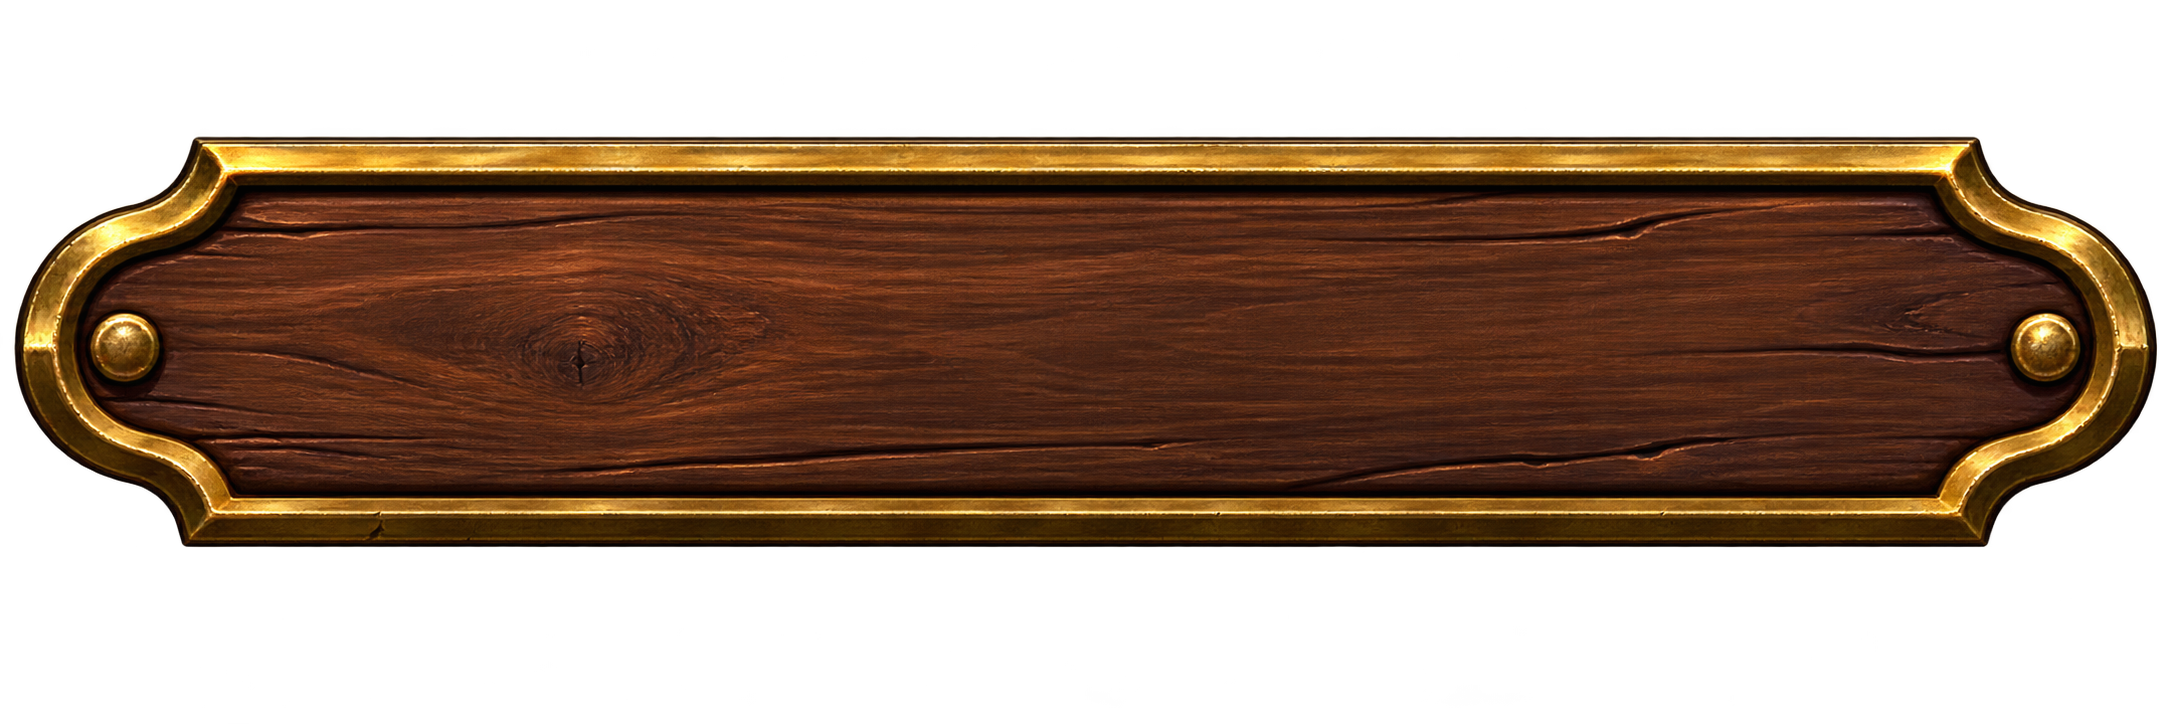
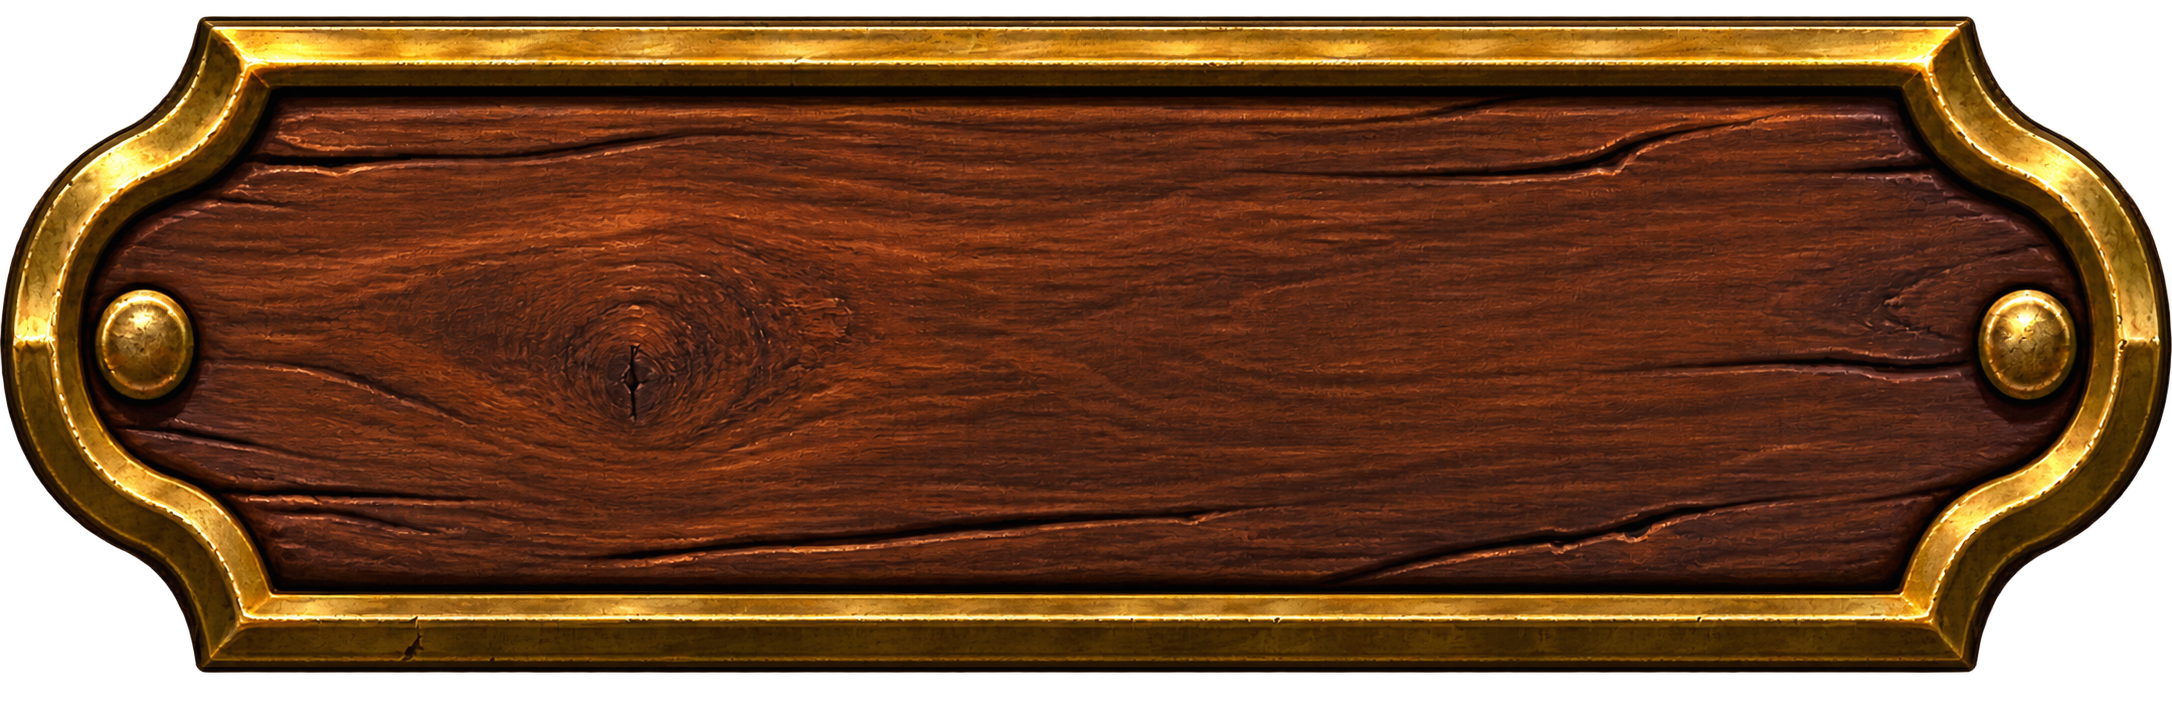
fix: tighten facility nameplate artwork

diff --git a/docs/specifications/04.icon_visual_system.md b/docs/specifications/04.icon_visual_system.md
@@ -78,4 +78,4 @@
 
 施設名は、共通の看板土台 `public/assets/ui/facility-nameplate.png` の上へ描画する。看板アセットには文字を焼き込まず、`Shop`・`Guild`・`Training` などの表示名はCanvas側で描く。これによりi18n時も同一の看板を使用できる。
 
-看板は暗い木材と控えめな古金の縁・留め具を持つ、少し豪華な意匠とする。アセットの縦横比は約3:1であり、描画時に無理に横へ伸縮しない。
+看板は暗い木材と控えめな古金の縁・留め具を持つ、少し豪華な意匠とする。看板本体はアセットのキャンバスをほぼ占め、レイアウト上の `144 x 48px` がそのまま見た目の看板サイズとなるようにする。
